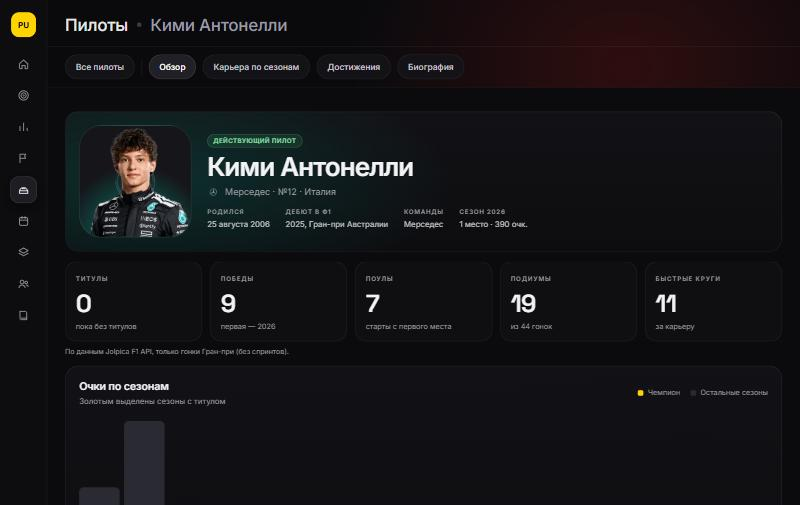
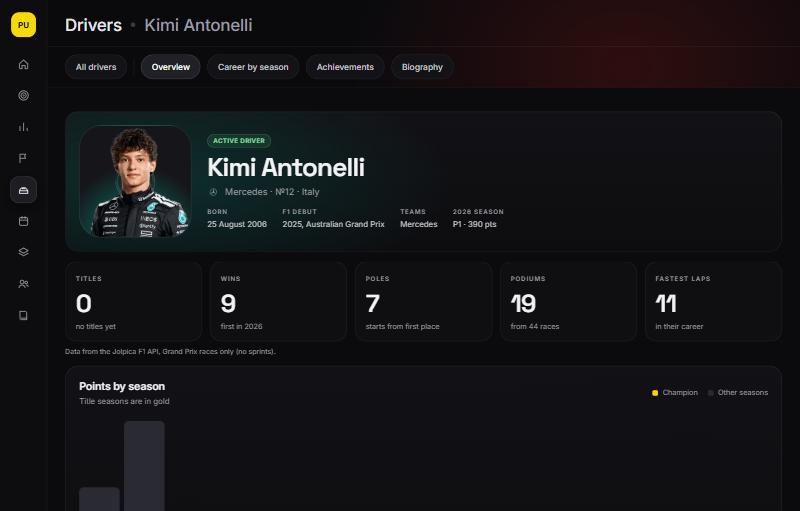
Репозиторий: скриншоты на английском, README о трёх языках; правка цен в правилах и политики
- Скриншоты README сняты заново на английском (главная, пилоты, профиль
  пилота, трассы, правила фэнтези).
- README, CHANGELOG, журнал решений (30–33): три языка, свой i18n,
  перевод текстов базы в клиенте, биографии из Википедии; цифры тестов
  и миграций обновлены.
- Правила фэнтези: строка «Цены» описывает модель v2 (30% пути к
  справедливой цене, не больше ±0.8 за этап) на трёх языках.
- Политика конфиденциальности (3 языка): загружаемые фото и GIF аватара,
  фэнтези-составы, язык в профиле и браузере; дата обновления.

diff --git a/public/privacy.html b/public/privacy.html
@@ -48,7 +48,7 @@
 
   <article lang="ru" data-l="ru">
     <h1>Политика конфиденциальности</h1>
-    <p class="date">Действует с 11 ноября 2026 года</p>
+    <p class="date">Действует с 11 ноября 2026 года · обновлена 12 ноября 2026 года</p>
 
     <section>
       <h2>Кто мы</h2>
@@ -66,7 +66,8 @@
         <li>идентификатор аккаунта в Google или Discord.</li>
       </ul>
       <p>Пароль от Google или Discord мы не видим и не храним. Своих паролей на сайте нет.</p>
-      <p>В игре мы храним то, что ты сам вводишь: ник, цвет аватара, лиги, в которых ты состоишь, твои прогнозы и начисленные очки.</p>
+      <p>В игре мы храним то, что ты сам вводишь: ник, аватар (буквы и цвет или загруженное тобой фото или GIF), язык сайта, лиги, в которых ты состоишь, твои прогнозы, фэнтези-составы и начисленные очки.</p>
+      <p>Фото для аватара ты загружаешь сам, это необязательно. Браузер обрезает и пережимает его ещё до отправки, поэтому метаданные снимка (камера, дата, геолокация) на сервер не попадают. Если фото заменить или убрать, старый файл удаляется автоматически в течение пары часов.</p>
     </section>
 
     <section>
@@ -81,7 +82,8 @@
     <section>
       <h2>Кто видит твои данные</h2>
       <ul>
-        <li>Участники твоих лиг видят твой ник, аватар, очки и место в рейтинге. Твои прогнозы на этап они видят только после закрытия приёма прогнозов.</li>
+        <li>Участники твоих лиг видят твой ник, аватар, очки и место в рейтинге. Твои прогнозы на этап они видят только после закрытия приёма прогнозов, фэнтези-состав — только после закрытия составов на этап.</li>
+        <li>Загруженное фото аватара хранится как картинка с открытой ссылкой: так его видят соперники по лиге. Ссылка длинная и случайная, но любой, у кого она есть, может открыть картинку.</li>
         <li>Твою почту другие игроки не видят.</li>
         <li>Игроки, с которыми у тебя нет общей лиги, не видят ничего из перечисленного.</li>
       </ul>
@@ -90,11 +92,11 @@
     <section>
       <h2>Где хранятся данные</h2>
       <ul>
-        <li>База данных и вход — сервис <a href="https://supabase.com/privacy">Supabase</a>, серверы в Европе (Стокгольм). Supabase ведёт технические журналы входов, в них есть IP-адрес и тип браузера.</li>
+        <li>База данных, вход и фото аватаров — сервис <a href="https://supabase.com/privacy">Supabase</a>, серверы в Европе (Стокгольм). Supabase ведёт технические журналы входов, в них есть IP-адрес и тип браузера.</li>
         <li>Сайт размещён на <a href="https://docs.github.com/site-policy/privacy-policies/github-general-privacy-statement">GitHub Pages</a>; GitHub может записывать IP-адреса посетителей в технические журналы.</li>
         <li>Резервные копии базы делаются раз в сутки, шифруются и хранятся 14 дней.</li>
       </ul>
-      <p>Чтобы ты оставался в аккаунте, браузер хранит ключ сессии в локальном хранилище. Других cookie и данных для отслеживания сайт не использует.</p>
+      <p>Чтобы ты оставался в аккаунте, браузер хранит ключ сессии в локальном хранилище. Там же — выбранный язык и мелкие отметки интерфейса (например, что подсказка уже показана). Других cookie и данных для отслеживания сайт не использует.</p>
     </section>
 
     <section>
@@ -104,7 +106,7 @@
 
     <section>
       <h2>Как удалить аккаунт</h2>
-      <p>Сам, в любой момент: <b>Настройки → Опасная зона → Удалить аккаунт</b>. Аккаунт, профиль, прогнозы и лиги, где ты единственный участник, удаляются из базы сразу. Если ты владелец лиги, где есть другие игроки, сначала передай её кому-то из них.</p>
+      <p>Сам, в любой момент: <b>Настройки → Опасная зона → Удалить аккаунт</b>. Аккаунт, профиль, прогнозы, фэнтези-составы и лиги, где ты единственный участник, удаляются из базы сразу, фото аватара — автоматически в течение пары часов. Если ты владелец лиги, где есть другие игроки, сначала передай её кому-то из них.</p>
       <p>Из резервных копий данные исчезнут сами, когда истечёт их срок хранения (14 дней).</p>
       <p>Если не получается войти на сайт, напиши в <a href="https://t.me/pufixluv">Telegram @pufixluv</a> — удалим вручную.</p>
       <p>Доступ сайта к аккаунту можно в любой момент отозвать и сам: в настройках Google (раздел «Сторонние приложения и сервисы») или Discord («Авторизованные приложения»).</p>
@@ -119,7 +121,7 @@
   </article>
   <article lang="uk" data-l="uk" hidden>
     <h1>Політика конфіденційності</h1>
-    <p class="date">Діє з 11 листопада 2026 року</p>
+    <p class="date">Діє з 11 листопада 2026 року · оновлено 12 листопада 2026 року</p>
 
     <section>
       <h2>Хто ми</h2>
@@ -137,7 +139,8 @@
         <li>ідентифікатор акаунта в Google або Discord.</li>
       </ul>
       <p>Пароль від Google або Discord ми не бачимо й не зберігаємо. Власних паролів на сайті немає.</p>
-      <p>У грі ми зберігаємо те, що ти сам вводиш: нік, колір аватара, ліги, у яких ти береш участь, твої прогнози та нараховані очки.</p>
+      <p>У грі ми зберігаємо те, що ти сам вводиш: нік, аватар (літери й колір або завантажене тобою фото чи GIF), мову сайту, ліги, у яких ти береш участь, твої прогнози, фентезі-склади та нараховані очки.</p>
+      <p>Фото для аватара ти завантажуєш сам, це необов’язково. Браузер обрізає й перестискає його ще до надсилання, тому метадані знімка (камера, дата, геолокація) на сервер не потрапляють. Якщо фото замінити або прибрати, старий файл видаляється автоматично протягом кількох годин.</p>
     </section>
 
     <section>
@@ -152,7 +155,8 @@
     <section>
       <h2>Хто бачить твої дані</h2>
       <ul>
-        <li>Учасники твоїх ліг бачать твій нік, аватар, очки й місце в рейтингу. Твої прогнози на етап вони бачать лише після закриття прийому прогнозів.</li>
+        <li>Учасники твоїх ліг бачать твій нік, аватар, очки й місце в рейтингу. Твої прогнози на етап вони бачать лише після закриття прийому прогнозів, фентезі-склад — лише після закриття складів на етап.</li>
+        <li>Завантажене фото аватара зберігається як картинка з відкритим посиланням: так його бачать суперники по лізі. Посилання довге й випадкове, але будь-хто, у кого воно є, може відкрити картинку.</li>
         <li>Твою пошту інші гравці не бачать.</li>
         <li>Гравці, з якими в тебе немає спільної ліги, не бачать нічого з переліченого.</li>
       </ul>
@@ -161,11 +165,11 @@
     <section>
       <h2>Де зберігаються дані</h2>
       <ul>
-        <li>База даних і вхід — сервіс <a href="https://supabase.com/privacy">Supabase</a>, сервери в Європі (Стокгольм). Supabase веде технічні журнали входів, у них є IP-адреса й тип браузера.</li>
+        <li>База даних, вхід і фото аватарів — сервіс <a href="https://supabase.com/privacy">Supabase</a>, сервери в Європі (Стокгольм). Supabase веде технічні журнали входів, у них є IP-адреса й тип браузера.</li>
         <li>Сайт розміщено на <a href="https://docs.github.com/site-policy/privacy-policies/github-general-privacy-statement">GitHub Pages</a>; GitHub може записувати IP-адреси відвідувачів у технічні журнали.</li>
         <li>Резервні копії бази робляться раз на добу, шифруються й зберігаються 14 днів.</li>
       </ul>
-      <p>Щоб ти залишався в акаунті, браузер зберігає ключ сесії в локальному сховищі. Інших cookie та даних для відстеження сайт не використовує.</p>
+      <p>Щоб ти залишався в акаунті, браузер зберігає ключ сесії в локальному сховищі. Там само — вибрана мова й дрібні позначки інтерфейсу (наприклад, що підказку вже показано). Інших cookie та даних для відстеження сайт не використовує.</p>
     </section>
 
     <section>
@@ -175,7 +179,7 @@
 
     <section>
       <h2>Як видалити акаунт</h2>
-      <p>Сам, будь-коли: <b>Налаштування → Небезпечна зона → Видалити акаунт</b>. Акаунт, профіль, прогнози та ліги, де ти єдиний учасник, видаляються з бази одразу. Якщо ти власник ліги, де є інші гравці, спершу передай її комусь із них.</p>
+      <p>Сам, будь-коли: <b>Налаштування → Небезпечна зона → Видалити акаунт</b>. Акаунт, профіль, прогнози, фентезі-склади та ліги, де ти єдиний учасник, видаляються з бази одразу, фото аватара — автоматично протягом кількох годин. Якщо ти власник ліги, де є інші гравці, спершу передай її комусь із них.</p>
       <p>Із резервних копій дані зникнуть самі, коли мине строк їх зберігання (14 днів).</p>
       <p>Якщо не вдається увійти на сайт, напиши в <a href="https://t.me/pufixluv">Telegram @pufixluv</a> — видалимо вручну.</p>
       <p>Доступ сайту до акаунта можна будь-коли відкликати й самому: у налаштуваннях Google (розділ «Сторонні додатки та сервіси») або Discord («Авторизовані програми»).</p>
@@ -190,7 +194,7 @@
   </article>
   <article lang="en" data-l="en" hidden>
     <h1>Privacy policy</h1>
-    <p class="date">Effective from 11 November 2026</p>
+    <p class="date">Effective from 11 November 2026 · updated 12 November 2026</p>
 
     <section>
       <h2>Who we are</h2>
@@ -208,7 +212,8 @@
         <li>your Google or Discord account ID.</li>
       </ul>
       <p>We never see or store your Google or Discord password. The site has no passwords of its own.</p>
-      <p>In the game we store what you enter yourself: your nickname, avatar colour, the leagues you’re in, your predictions and the points you’ve earned.</p>
+      <p>In the game we store what you enter yourself: your nickname, avatar (letters and a colour, or a photo or GIF you upload), site language, the leagues you’re in, your predictions, fantasy squads and the points you’ve earned.</p>
+      <p>Uploading an avatar photo is optional. Your browser crops and re-encodes it before sending, so the photo’s metadata (camera, date, location) never reaches the server. If you replace or remove the photo, the old file is deleted automatically within a couple of hours.</p>
     </section>
 
     <section>
@@ -223,7 +228,8 @@
     <section>
       <h2>Who sees your data</h2>
       <ul>
-        <li>Members of your leagues see your nickname, avatar, points and standings position. They see your predictions for a race only after predictions close.</li>
+        <li>Members of your leagues see your nickname, avatar, points and standings position. They see your predictions for a race only after predictions close, and your fantasy squad only after squads lock for that race.</li>
+        <li>An uploaded avatar photo is stored as an image with a public link, which is how your league rivals see it. The link is long and random, but anyone who has it can open the image.</li>
         <li>Other players can’t see your email.</li>
         <li>Players who don’t share a league with you see none of the above.</li>
       </ul>
@@ -232,11 +238,11 @@
     <section>
       <h2>Where the data is stored</h2>
       <ul>
-        <li>The database and sign-in run on <a href="https://supabase.com/privacy">Supabase</a>, with servers in Europe (Stockholm). Supabase keeps technical sign-in logs that include your IP address and browser type.</li>
+        <li>The database, sign-in and avatar photos run on <a href="https://supabase.com/privacy">Supabase</a>, with servers in Europe (Stockholm). Supabase keeps technical sign-in logs that include your IP address and browser type.</li>
         <li>The site is hosted on <a href="https://docs.github.com/site-policy/privacy-policies/github-general-privacy-statement">GitHub Pages</a>; GitHub may record visitors’ IP addresses in technical logs.</li>
         <li>Database backups are made once a day, encrypted and kept for 14 days.</li>
       </ul>
-      <p>To keep you signed in, your browser stores a session key in local storage. The site uses no other cookies or tracking data.</p>
+      <p>To keep you signed in, your browser stores a session key in local storage, along with your chosen language and small interface flags (for example, that a tip has already been shown). The site uses no other cookies or tracking data.</p>
     </section>
 
     <section>
@@ -246,7 +252,7 @@
 
     <section>
       <h2>How to delete your account</h2>
-      <p>Yourself, at any time: <b>Settings → Danger zone → Delete account</b>. Your account, profile, predictions and leagues where you’re the only member are deleted from the database immediately. If you own a league with other players, hand it over to one of them first.</p>
+      <p>Yourself, at any time: <b>Settings → Danger zone → Delete account</b>. Your account, profile, predictions, fantasy squads and leagues where you’re the only member are deleted from the database immediately, and your avatar photo automatically within a couple of hours. If you own a league with other players, hand it over to one of them first.</p>
       <p>The data disappears from backups on its own once their retention period (14 days) ends.</p>
       <p>If you can’t sign in to the site, message <a href="https://t.me/pufixluv">Telegram @pufixluv</a> and we’ll delete it manually.</p>
       <p>You can also revoke the site’s access to your account at any time yourself: in your Google settings (“Third-party apps &amp; services”) or in Discord (“Authorized Apps”).</p>

diff --git a/src/i18n/uk.ts b/src/i18n/uk.ts
@@ -1107,7 +1107,7 @@ const uk: Dict = {
   'rules.lim7': 'Штраф за заміну',
   'rules.lim7d': 'Кожна понад безкоштовні; рахуються за підсумком, повернути назад — безкоштовно',
   'rules.lim8': 'Ціни',
-  'rules.lim8d': 'За очками на мільйон за 3 етапи: недорогі ±0.6, дорогі ±0.3; не нижче $3M',
+  'rules.lim8d': 'За формою: до справедливої ціни на 30% шляху за етап, не більше ±0.8; не нижче $3M',
   'rules.chip.wildcard': 'Будь-які заміни на етапі без штрафу. Не на першому етапі.',
   'rules.chip.limitless': 'Один етап без ліміту бюджету й штрафів, потім повертається попередній склад. Не на першому етапі.',
   'rules.chip.final_fix': 'Одна заміна пілота після закриття складів і до старту гонки, в межах бюджету. Не на першому етапі.',

diff --git a/src/i18n/ru.ts b/src/i18n/ru.ts
@@ -1107,7 +1107,7 @@ const ru = {
   'rules.lim7': 'Штраф за замену',
   'rules.lim7d': 'Каждая сверх бесплатных; считаются по итогу, вернуть обратно — бесплатно',
   'rules.lim8': 'Цены',
-  'rules.lim8d': 'По очкам на миллион за 3 этапа: недорогие ±0.6, дорогие ±0.3; не ниже $3M',
+  'rules.lim8d': 'По форме: к справедливой цене на 30% пути за этап, не больше ±0.8; не ниже $3M',
   'rules.chip.wildcard': 'Любые замены на этапе без штрафа. Не на первом этапе.',
   'rules.chip.limitless': 'Один этап без лимита бюджета и штрафов, потом возвращается прежний состав. Не на первом этапе.',
   'rules.chip.final_fix': 'Одна замена пилота после закрытия составов и до старта гонки, в пределах бюджета. Не на первом этапе.',

diff --git a/src/i18n/en.ts b/src/i18n/en.ts
@@ -1107,7 +1107,7 @@ const en: Dict = {
   'rules.lim7': 'Transfer penalty',
   'rules.lim7d': 'Each one beyond the free ones; counted by the end result, reverting is free',
   'rules.lim8': 'Prices',
-  'rules.lim8d': 'By points per million over 3 races: cheap ±0.6, expensive ±0.3; never below $3M',
+  'rules.lim8d': 'By form: 30% of the way to the fair price per race, at most ±0.8; never below $3M',
   'rules.chip.wildcard': 'Unlimited transfers for the race with no penalty. Not in the first round.',
   'rules.chip.limitless': 'One race with no budget limit or penalties, then your previous squad returns. Not in the first round.',
   'rules.chip.final_fix': 'One driver swap after squads lock and before the race starts, within budget. Not in the first round.',

diff --git a/README.md b/README.md
@@ -24,7 +24,7 @@ Gridline is an unofficial, non-commercial website where a group of friends plays
 
 Leagues can have any number of players: create a lobby and invite friends with a link or a code. Sign-in is via Google or Discord.
 
-> The website interface is in Russian.
+> The website is available in **English, Ukrainian and Russian**: pick a language on the sign-in screen or in settings.
 
 ## Screenshots
 
@@ -64,7 +64,8 @@ Leagues can have any number of players: create a lobby and invite friends with a
 - If a driver doesn't race, their team's reserve driver is substituted automatically.
 
 **Everything else**
-- Calendar with countdowns and weather, results (including practice sessions), circuit maps, driver catalogue with careers and biographies.
+- Calendar with countdowns and weather, results (including practice sessions), circuit maps, driver catalogue with careers and Wikipedia biographies in each language.
+- **Three languages** (English, Ukrainian, Russian). The choice is saved in the profile and follows the player across devices.
 - Profile picture (JPG, PNG, WebP or animated GIF, cropped in the browser) or a letter avatar.
 - Automatic season rollover: leagues carry over, starting prices come from last season's championship.
 - Smooth scaling for large screens, from 1440 to 4K and ultrawide monitors.
@@ -88,6 +89,7 @@ flowchart LR
 - **The database does the scoring.** SQL functions are idempotent: re-running them never duplicates anything. The UI only displays ready-made rows.
 - **Security lives in the database.** Deadlines, hidden picks, the fantasy budget and league roles are enforced by Row Level Security policies and triggers. The browser only has the public key.
 - **Server time.** Countdowns and open/closed states use `server_now()`, not the device clock.
+- **Three languages without a library.** Interface text lives in typed per-language dictionaries, each loaded on demand. Names and messages the database stores in Russian (Grand Prix, teams, drivers, errors, price reasons) are translated in the Supabase client as responses arrive, so the SQL stays untouched. Tests fail if a string bypasses the dictionaries or a new name has no translation.
 
 More detail (in Russian): [architecture](docs/ARCHITECTURE.md) · [game mechanics](docs/PRODUCT.md) · [fantasy formula](docs/FANTASY-FORMULA.md) · [design](docs/DESIGN.md).
 
@@ -95,7 +97,7 @@ More detail (in Russian): [architecture](docs/ARCHITECTURE.md) · [game mechanic
 
 | Layer | What's used |
 |---|---|
-| Frontend | React 19, TypeScript (strict), Vite, TanStack Query, React Router (`HashRouter`), CSS Modules + CSS custom properties |
+| Frontend | React 19, TypeScript (strict), Vite, TanStack Query, React Router (`HashRouter`), CSS Modules + CSS custom properties, own i18n (uk · ru · en) |
 | Backend | Supabase: Postgres, Row Level Security, Auth (Google, Discord), Storage, Edge Functions (Deno), `pg_cron` + `pg_net` |
 | F1 data | [Jolpica F1 API](https://github.com/jolpica/jolpica-f1), [OpenF1](https://openf1.org), [Open-Meteo](https://open-meteo.com) |
 | Tests | Vitest + Testing Library (frontend), pgTAP (`supabase test db`: RLS, scoring, prices) |
@@ -103,8 +105,8 @@ More detail (in Russian): [architecture](docs/ARCHITECTURE.md) · [game mechanic
 
 ## Quality
 
-- **74** unit tests and **16** pgTAP database test suites run in CI on every push.
-- **22** migrations: the schema changes only through files in `supabase/migrations/`, never by hand in the console.
+- **91** unit tests and **18** pgTAP database test suites run in CI on every push.
+- **24** migrations: the schema changes only through files in `supabase/migrations/`, never by hand in the console.
 - Initial JS is **≈159 KB** gzipped against a 250 KB budget (checked in CI). Screens load on demand; fonts are self-hosted, no Google Fonts.
 - WCAG AA accessibility on every screen (checked with axe).
 
@@ -114,6 +116,7 @@ More detail (in Russian): [architecture](docs/ARCHITECTURE.md) · [game mechanic
 src/
   app/          router, shared layout
   features/     screens: home, predict, league, fantasy, drivers, schedule, results, profile, settings, lobby…
+  i18n/         dictionaries (uk, ru, en), translation of database texts
   lib/          API modules (src/lib/api/*), time, UI scaling, avatars, assets
   ui/           shared components: sidebar, dialogs, avatar, toasts, cards
   styles/       design tokens and shared styles
@@ -135,6 +138,7 @@ docs/           product, architecture, fantasy formula, design, decisions
 | 12 Nov | **Phase 4.** Fantasy: squads, scoring, prices, market, leaderboard, analytics |
 | 12 Nov | **Phase 5.** Per-block deadlines and sprints, season rollover, dialogs and error states, accessibility |
 | 12 Nov | Polish: frameless layout, sidebar, profile photos and GIFs, large screens, settings page, keep-alive, **live fantasy prices** |
+| 12 Nov | **Languages:** the whole site in English, Ukrainian and Russian, including database texts, driver biographies and the privacy policy |
 
 Every decision and the reasoning behind it is in the [decision log](docs/DECISIONS.md); changes by date are in the [CHANGELOG](CHANGELOG.md).
 

diff --git a/docs/DECISIONS.md b/docs/DECISIONS.md
@@ -49,6 +49,15 @@ The key project decisions: what was chosen, why, and where it lives in the code.
 | 26 | Unused avatar files are removed by **`sync-f1` every hour** | 12 Nov 2026 | Safety net if a tab was closed mid-save or an account was deleted |
 | 27 | Profile settings — **a dedicated page with a Save button** | 12 Nov 2026 | Changes go in one request, with cancel and nickname validation |
 
+## Languages
+
+| # | Decision | Date | Why |
+|---|---|---|---|
+| 30 | **English, Ukrainian and Russian**, chosen on the sign-in screen or in settings and **stored in the profile** | 12 Nov 2026 | Friends play from different countries; the language should follow the player across devices |
+| 31 | **Own i18n instead of a library**: typed dictionaries (Russian is the key source, TypeScript checks the others are complete), one lazy chunk per language, `Intl` for plurals, dates and country names | 12 Nov 2026 | A few KB of own code instead of a dependency; a missing translation is a compile error |
+| 32 | **Database texts are translated in the client**, in the Supabase `fetch`, both ways (any language → current) | 12 Nov 2026 | No rewrite of ~20 SQL functions; switching language re-translates cached data without new requests. A test checks the dictionary against `sync-f1` and the migrations |
+| 33 | Driver biographies **from each language's Wikipedia** (via interlanguage links), falling back to the nearest language | 12 Nov 2026 | Original text written by native speakers rather than a machine translation |
+
 ## Operations
 
 | # | Decision | Date | Why |

diff --git a/CHANGELOG.md b/CHANGELOG.md
@@ -2,6 +2,16 @@
 
 Grouped by date and phase. The reasoning behind each decision is in the [decision log](docs/DECISIONS.md).
 
+## 12 November 2026 — languages
+
+- **The whole site in English, Ukrainian and Russian.** Language switch on the sign-in screen and in settings; the choice is stored in the profile (migration 0023).
+- Ukrainian letters (і, ї, є, ґ) allowed in nicknames and avatar letters.
+- Grand Prix, country, team and driver names, fantasy price reasons and database error messages are translated in the client; switching language re-translates loaded data instantly, without new requests.
+- Driver biographies from Wikipedia in each language (migration 0024); the privacy policy in three languages at the same address.
+- Guard tests: no hard-coded interface text outside the dictionaries, no database name without a translation.
+- Fantasy rules: the "Prices" row now describes the live price model; the privacy policy covers uploaded avatar photos and fantasy squads.
+- README screenshots retaken in English.
+
 ## 12 November 2026 — post-launch polish
 
 - **Fantasy: live prices (model v2).** Form rating, fair price, smooth movement capped at ±0.8 per race; rookies start at 85% of their teammate's price; the Market shows the fair price and a price chart. Migration 0022, test 0016.
